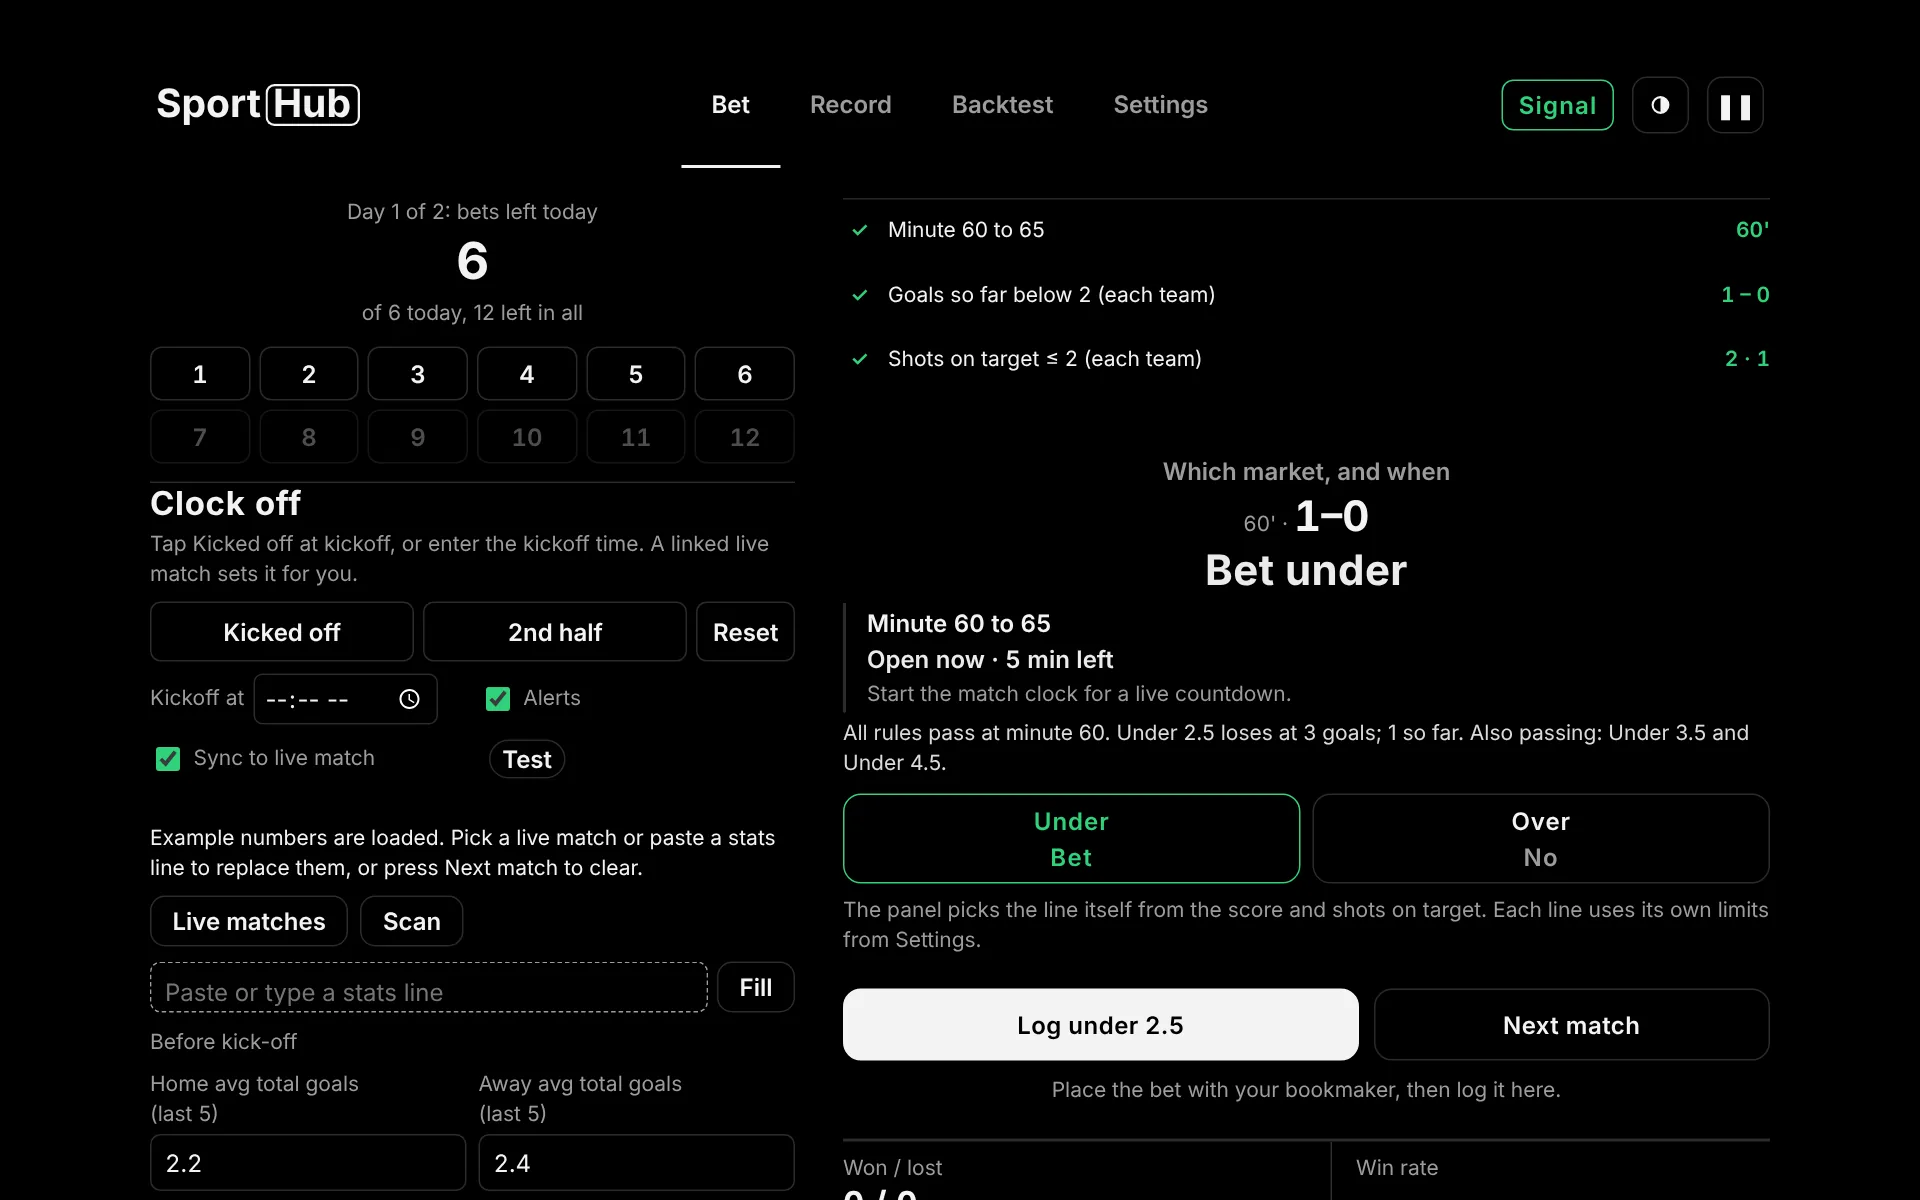
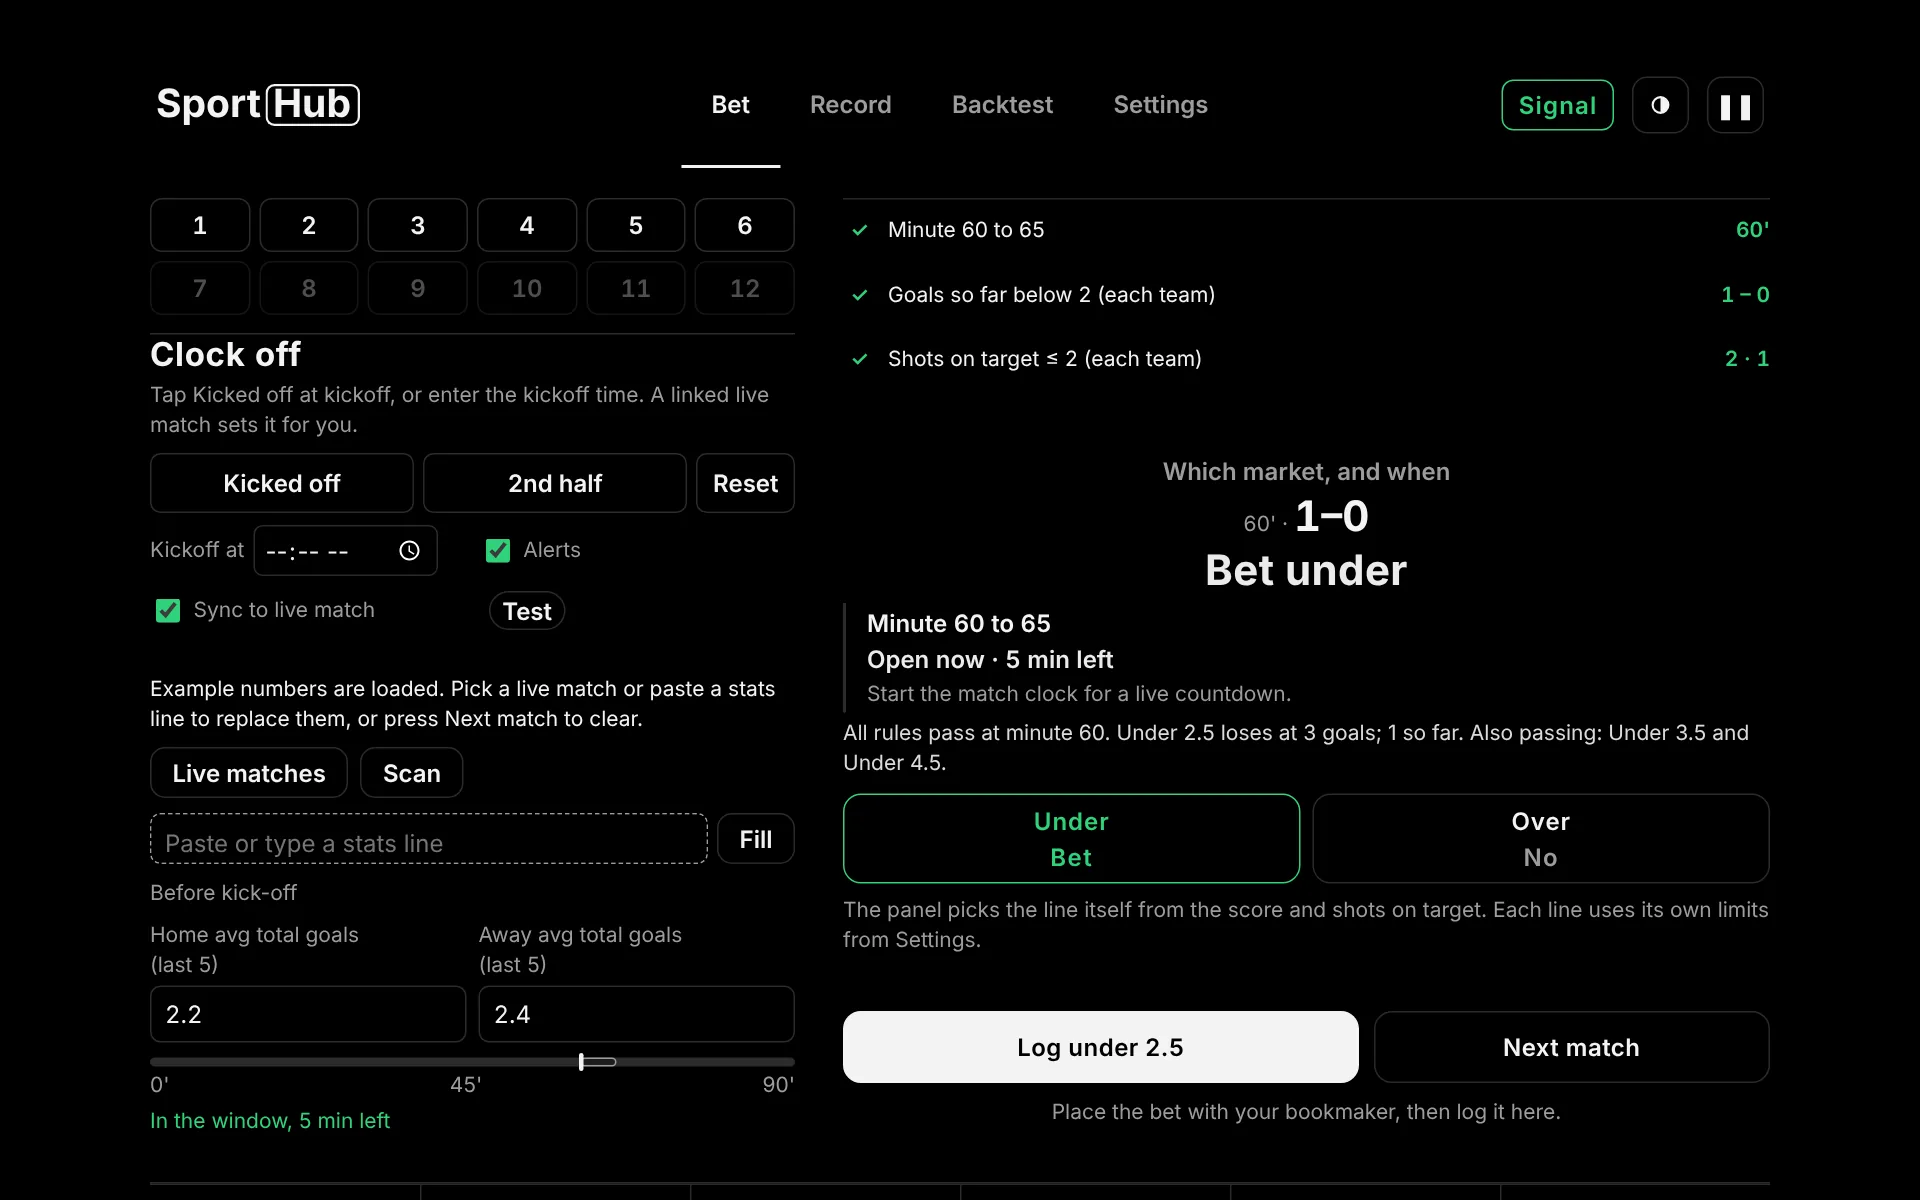
Build 63: remove the bets-left-today block; Session figures run across the full width on wide screens
Claude-Session: https://claude.ai/code/session_01K42p2uwRXf4Wwj9iN5MFzn

diff --git a/panel.html b/panel.html
@@ -842,6 +842,17 @@ body.pg3 .v2[data-cur="1"] [data-pg]:not([data-pg~="1"]),
 body.pg3 .v2[data-cur="2"] [data-pg]:not([data-pg~="2"]),
 body.pg3 .v2[data-cur="3"] [data-pg]:not([data-pg~="3"]){display:none!important}
 @media (min-width:600px){#form label.pgset{display:none}}
+
+/* ===== Build 63: the "Day x of y: bets left today" block (heading, big number, count line) is taken off the screen. The same counts are in the Session figures. ===== */
+#v-bet .stk{display:none!important}
+/* With that block gone the left column is shorter than the right, so on a wide screen the Session figures run across the full width under both. */
+@media (min-width:900px){
+ #v-bet .cl{grid-row:1/3}
+ #v-bet .cs{grid-column:1/-1;grid-row:3}
+ #v-bet #fd-stats .grid{grid-template-columns:repeat(6,minmax(0,1fr));column-gap:0}
+ #v-bet #fd-stats .grid>div{padding:10px 16px;border-bottom:0;border-left:1px solid var(--line)}
+ #v-bet #fd-stats .grid>div:first-child{border-left:0;padding-left:0}
+}
 </style>
 </head>
 <body>
@@ -1135,7 +1146,7 @@ body.pg3 .v2[data-cur="3"] [data-pg]:not([data-pg~="3"]){display:none!important}
  </section>
  <div class="pgnav" id="pgnav" hidden><button type="button" data-go="back">Back</button><button type="button" data-go="next">Next</button></div>
  <p class="pgsr" id="pgsr" role="status" aria-live="polite"></p>
- <footer>Numbers come from a pasted stats line, or are pulled from your own API-Sports key if you add one. Not connected to a bookmaker. No bet is guaranteed.<span class="bld"><span id="buildno">Build 62 · 7 Nov 2026</span> <a id="aboutlk" class="abl" href="./?about">About SportHub</a> <button type="button" class="pu" id="reloadnew" data-a="reload">Reload latest</button></span></footer>
+ <footer>Numbers come from a pasted stats line, or are pulled from your own API-Sports key if you add one. Not connected to a bookmaker. No bet is guaranteed.<span class="bld"><span id="buildno">Build 63 · 7 Nov 2026</span> <a id="aboutlk" class="abl" href="./?about">About SportHub</a> <button type="button" class="pu" id="reloadnew" data-a="reload">Reload latest</button></span></footer>
 </main>
 
 <script>
